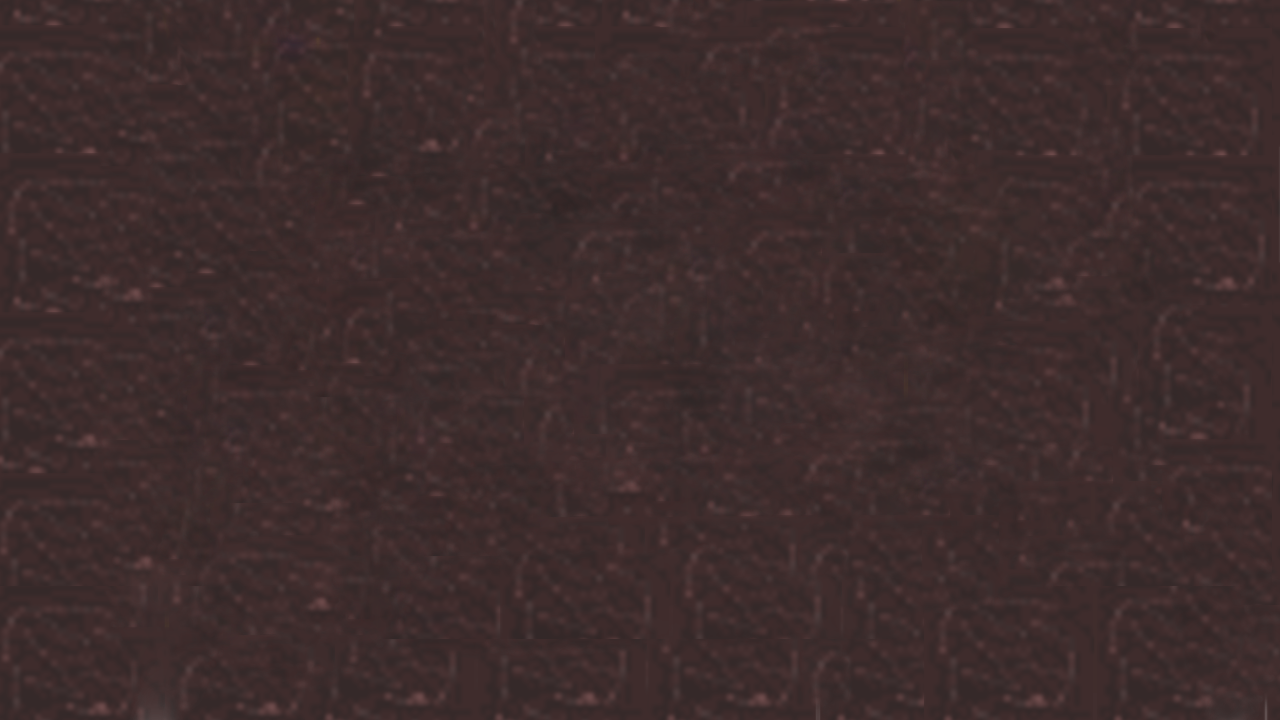
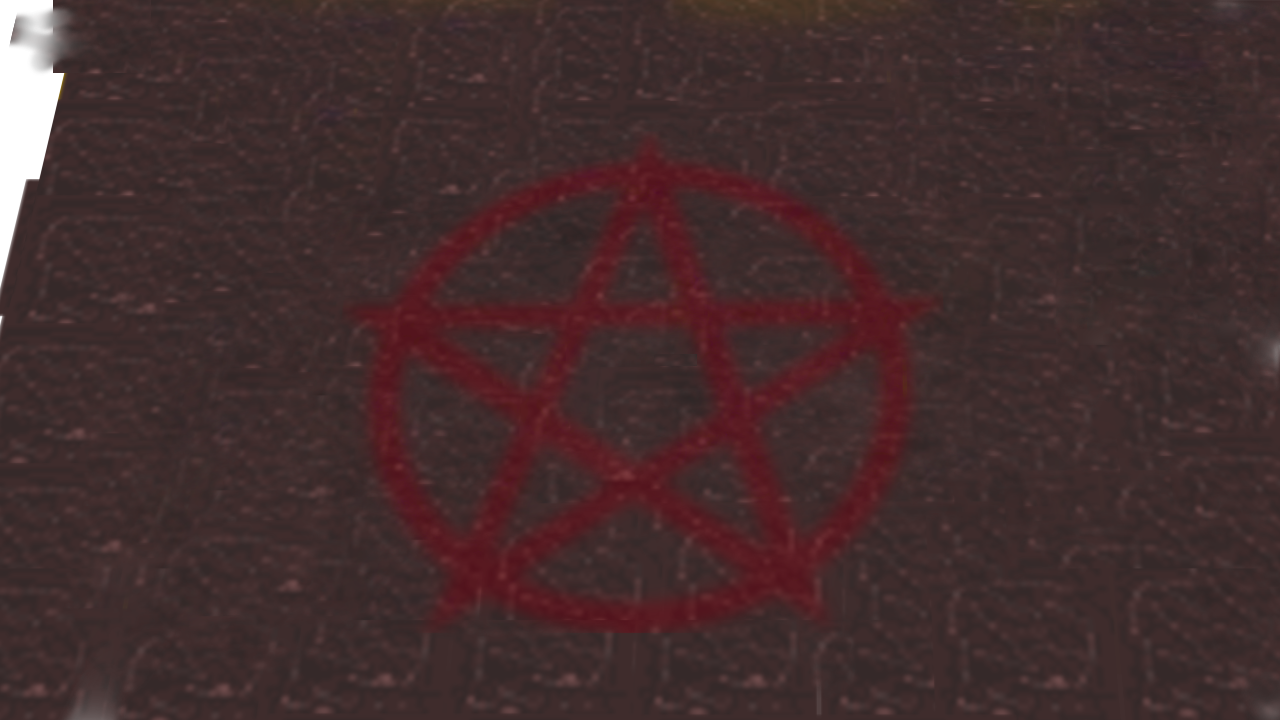
new background

diff --git a/main.py b/main.py
@@ -28,14 +28,15 @@ running = True
 game_over = False
 game_won = False
 
-pentaGramPoints = [(635, 100), (350, 300), (950, 300), (492, 620), (800, 620)]
+pentaGramPoints = [(650, 150), (350, 300), (950, 300), (492, 620), (800, 620)]
 
 zombies = [spawnZombie(pentaGramPoints)]
 angels = []
 mixer.load("./assets/loadAndChamber.mp3")
 
-pentagramImage = pygame.transform.scale_by(pygame.image.load("./assets/pentagram.webp"), 0.5)
-backgroundImage = pygame.image.load("./assets/background.png")
+#pentagramImage = pygame.transform.scale_by(pygame.image.load("./assets/pentagram.webp"), 0.5)
+backgroundImage = pygame.image.load("./assets/background.png").convert()
+candleImage = pygame.image.load("./assets/candle.png").convert_alpha()
 
 vignette_alpha = 0
 vignette_speed = 2
@@ -213,8 +214,6 @@ while running:
                     mixer.play()
                     TegeleTulistamisega(mangija, zombies, angels)
                     mangija.SaaTagasilööki(5,1)
-                elif event.button == 3:
-                    paused = True
                 elif event.button == 2:
                     print("angels on screen: ", len(angels))
                     print("angels killed: ", mangija.angelKills)
@@ -222,7 +221,8 @@ while running:
                     print("zombies killed: ", mangija.zombieKills)
                     print("Damage done to angels: ", mangija.damageDone)
                 #print("Tulistati!")
-
+            if event.type == pygame.KEYDOWN and event.key == pygame.K_ESCAPE:
+                paused=True
         # Check if the timer event is triggered
         if event.type == pygame.USEREVENT + 3:
             for angel in angels:
@@ -255,9 +255,10 @@ while running:
     # fill the screen with a color to wipe away anything from last frame
 
     #Pentagram
-    screen.blit(pentagramImage, ((1280-pentagramImage.get_width())/2,(720-pentagramImage.get_height())/2))
+    #screen.blit(pentagramImage, ((1280-pentagramImage.get_width())/2,(720-pentagramImage.get_height())/2))
     for point in pentaGramPoints:
-        pygame.draw.rect(screen, (255, 165, 0), pygame.Rect((point[0]-50, point[1]-50), (100,100)))
+        #pygame.draw.rect(screen, (255, 165, 0), pygame.Rect((point[0]-50, point[1]-50), (100,100)))
+        screen.blit(candleImage, (point[0]-50, point[1]-50))
 
     if len(zombies)<=maxZombies:
         if timePassedFromZombie == 0:
@@ -345,6 +346,7 @@ while running:
                     mainMenu = True
                     game_over = False
                     game_won = False
+                    summonProgress=0
                     init()
 
     # Draw vignette image if game is over

diff --git a/Funktsioonid.py b/Funktsioonid.py
@@ -59,7 +59,15 @@ def spawnZombie(points, n=1):
                               random.choice(points)))
         return result
 
-def spawnAngel(zombies):
-    return angel.Angel(random.randrange(-10, 0) if random.random() < 0.5 else random.randrange(1280, 1280+10),
+def spawnAngel(zombies, n=1):
+    if n == 1:
+        return angel.Angel(random.randrange(-10, 0) if random.random() < 0.5 else random.randrange(1280, 1280+10),
                              random.randrange(-10, 0) if random.random() < 0.5 else random.randrange(720, 720+10),
                              random.choice(zombies) if len(zombies)!= 0 else None)
+    else:
+        result = []
+        for i in range(0, n):
+            result.append(angel.Angel(random.randrange(-10, 0) if random.random() < 0.5 else random.randrange(1280, 1280+10),
+                             random.randrange(-10, 0) if random.random() < 0.5 else random.randrange(720, 720+10),
+                             random.choice(zombies) if len(zombies)!= 0 else None))
+        return result
